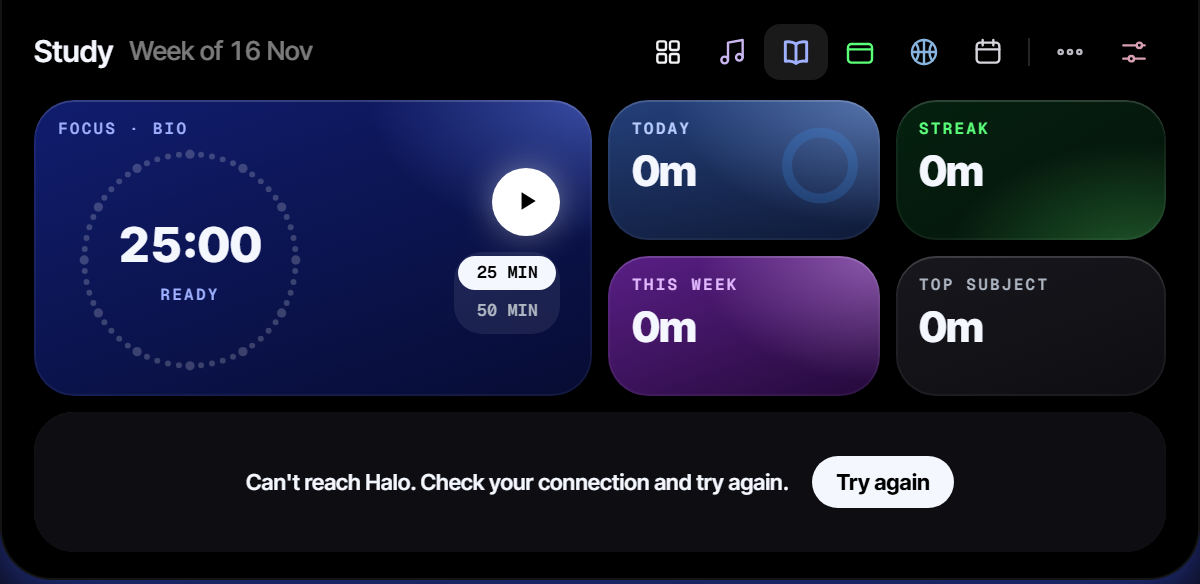
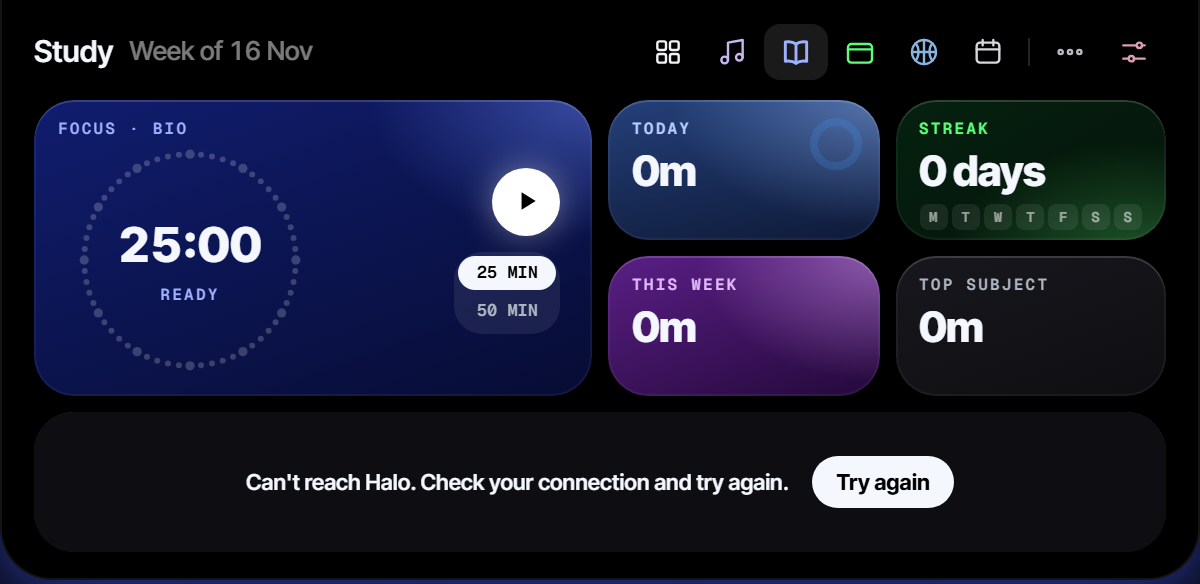
Card 16 review fixes: overtime is +$2 an hour, bar scale, Spotify ellipsis, Today ring, streak pills, phone Home reshoot

Changed region(s): [[0.6475, 0.2466, 0.74, 0.3699], [0.7708, 0.2774, 0.8942, 0.339]]

diff --git a/src/panels/pay.ts b/src/panels/pay.ts
@@ -2,7 +2,7 @@ import '../styles/tokens.css'
 import '../styles/proto.css'
 import './pay.css'
 import type { Backend, Settings } from '../types'
-import { CHARGE_MAX_HOURS, CHARGE_OT_HOURS, calcWeek, chargeBar, cumulativeGross, overtimePay, perthWeekStart, sundayRate, type WeekPay } from '../lib/pay'
+import { CHARGE_MAX_HOURS, CHARGE_OT_HOURS, OT_EXTRA_RATE, calcWeek, chargeBar, cumulativeGross, overtimePay, perthWeekStart, sundayRate, type WeekPay } from '../lib/pay'
 import { rangeLabel } from '../lib/shell-meta'
 import { animateIn, countUp, pvRoot, reducedMotion, tip, type PvRoot } from '../ui/charts'
 
@@ -24,13 +24,13 @@ const aud = new Intl.NumberFormat('en-AU', { style: 'currency', currency: 'AUD',
 const whole = (n: number) => `$${Math.round(n)}`
 const hrs = (n: number) => String(Number(n.toFixed(1)))
 const amountHtml = (n: number) => { const [d, c] = n.toFixed(2).split('.'); return `$${Number(d).toLocaleString('en-AU')}<small>.${c}</small>` }
-const otX = (CHARGE_OT_HOURS / CHARGE_MAX_HOURS) * 100
+const otX = (CHARGE_OT_HOURS / CHARGE_MAX_HOURS) * 100 // the starting spot, moved by paint() when the scale grows
 
 const TEMPLATE = `<div class="payHero pop" style="--i:0">
     <div class="payTop"><span class="caps" data-k="cap">This week</span><div class="toggle" role="group" aria-label="Pay week"><button type="button" data-w="0" class="on" aria-pressed="true">THIS</button><button type="button" data-w="1" aria-pressed="false">NEXT</button></div></div>
     <div class="payAmt"><b class="num" data-k="amt" aria-live="polite">$0<small>.00</small></b><span class="chipb" data-k="ot" hidden></span></div>
-    <div class="charge" role="img" data-k="chargeA11y"><div class="trk"></div><div class="fl" data-k="fl"></div><div class="ot" data-k="otbar" style="left:${otX}%"></div><div class="mk" style="left:${otX}%"></div><div class="kn" data-k="kn" style="left:12%">${BOLT}<span data-k="knt">0h</span></div></div>
-    <div class="chargeL" aria-hidden="true"><span>0H</span><span>10H OVERTIME</span><span>24H</span></div>
+    <div class="charge" role="img" data-k="chargeA11y"><div class="trk"></div><div class="fl" data-k="fl"></div><div class="ot" data-k="otbar" style="left:${otX}%"></div><div class="mk" data-k="mk" style="left:${otX}%"></div><div class="kn" data-k="kn" style="left:12%">${BOLT}<span data-k="knt">0h</span></div></div>
+    <div class="chargeL" aria-hidden="true"><span>0H</span><span data-k="otL">10H OVERTIME</span><span data-k="maxL">24H</span></div>
     <button type="button" class="payRates" data-k="rates">Rates from Settings</button>
     <div class="area"><svg viewBox="0 0 290 84" preserveAspectRatio="none" aria-hidden="true"><defs><linearGradient id="payAf" x1="0" y1="0" x2="0" y2="1"><stop offset="0" stop-color="#5CFF7A" stop-opacity=".35"/><stop offset="1" stop-color="#5CFF7A" stop-opacity="0"/></linearGradient></defs>${[20, 40, 60].map((y) => `<line x1="0" x2="290" y1="${y}" y2="${y}" stroke="rgba(255,255,255,.06)" stroke-dasharray="3 4"/>`).join('')}<g data-k="curve"></g></svg><div class="dl" data-k="dl"></div></div>
     <div class="areaEmpty"><b>No shifts this week</b><span data-k="emptyNote"></span></div>
@@ -82,15 +82,21 @@ export function PayPanel(api: Backend, subscribe: (cb: () => void) => () => void
     const ot = overtimePay(w)
     const chip = $('ot')
     chip.hidden = ot <= 0
-    if (ot > 0) chip.textContent = `+${whole(ot)} OT`
+    if (ot > 0) chip.textContent = `+${aud.format(ot).replace('.00', '')} OT`
+    chip.title = `Overtime pays an extra ${whole(OT_EXTRA_RATE)} an hour past 10 hours`
 
     // charging bar: solid up to 10 h, stripes past it. The knob never leaves the bar's left edge.
     const bar = chargeBar(w.hours)
+    const mark = `${(CHARGE_OT_HOURS / bar.scale) * 100}%`
     $('fl').style.width = `${bar.base * 100}%`
     $('otbar').style.width = `${bar.over * 100}%`
-    $('kn').style.left = `${Math.min(92, Math.max(12, (bar.base + bar.over) * 100))}%`
+    $('otbar').style.left = mark
+    $('mk').style.left = mark
+    $('otL').style.visibility = bar.scale > 30 ? 'hidden' : ''
+    $('maxL').textContent = `${Number(bar.scale.toFixed(1))}H`
+    $('kn').style.left = `${Math.max(12, (bar.base + bar.over) * 100)}%`
     $('knt').textContent = `${hrs(w.hours)}h`
-    $('chargeA11y').setAttribute('aria-label', `${hrs(w.hours)} hours of ${CHARGE_MAX_HOURS}, overtime starts at ${CHARGE_OT_HOURS}`)
+    $('chargeA11y').setAttribute('aria-label', `${hrs(w.hours)} hours of ${Number(bar.scale.toFixed(1))}, overtime starts at ${CHARGE_OT_HOURS}`)
 
     // curve: cumulative pay by day
     const cum = cumulativeGross(w)

diff --git a/src/panels/homeTab.ts b/src/panels/homeTab.ts
@@ -195,25 +195,14 @@ export function HomeTab(o: HomeTabOptions): HomeTabHandle {
     const base = `<div class="dpArt" style="${art ? `background-image:url(&quot;${art}&quot;)` : ''}"></div>`
     if (media === undefined) return paint('music', 'load', `${base}<div class="dpMuT"><div class="dpL">Spotify</div>${skel('s')}</div>`)
     if (!media || !media.available || !media.title) {
-      return paint('music', `m:none:${media === null}`, `${base}<div class="dpMuT"><div class="dpL">Music</div><b class="dpTt fits"><span>Nothing playing</span></b><div class="dpS">${media === null ? 'Start Halo helper' : 'Open Spotify'}</div></div><div class="dpEq" aria-hidden="true"></div><button type="button" class="dpPl" disabled aria-label="Play">${PLAY}</button>`)
+      return paint('music', `m:none:${media === null}`, `${base}<div class="dpMuT"><div class="dpL">Music</div><b class="dpTt">Nothing playing</b><div class="dpS">${media === null ? 'Start Halo helper' : 'Open Spotify'}</div></div><div class="dpEq" aria-hidden="true"></div><button type="button" class="dpPl" disabled aria-label="Play">${PLAY}</button>`)
     }
     const m = media
     const key = `m:${m.title}:${m.artist}:${m.playing}:${art ? 1 : 0}`
-    paint('music', key, `${base}<div class="dpMuT"><div class="dpL" style="color:#1ED760">${esc(m.source || 'Music')}</div><b class="dpTt" data-marquee><span>${esc(m.title)}</span></b><div class="dpS" data-marquee>${esc(m.artist)}</div></div><div class="dpEq ${m.playing ? 'on' : ''}" aria-hidden="true">${[.5, .9, .6, 1, .4, .8, .55].map((h, i) => `<i style="--h:${h};animation-delay:${i * .11}s"></i>`).join('')}</div><button type="button" class="dpPl" aria-label="${m.playing ? 'Pause' : 'Play'}">${m.playing ? PAUSE : PLAY}</button>`, (el) => {
+    paint('music', key, `${base}<div class="dpMuT"><div class="dpL" style="color:#1ED760">${esc(m.source || 'Music')}</div><b class="dpTt" data-ellipsis title="${esc(m.title)}">${esc(m.title)}</b><div class="dpS dpAr" data-ellipsis>${esc(m.artist)}</div></div><div class="dpEq ${m.playing ? 'on' : ''}" aria-hidden="true">${[.5, .9, .6, 1, .4, .8, .55].map((h, i) => `<i style="--h:${h};animation-delay:${i * .11}s"></i>`).join('')}</div><button type="button" class="dpPl" aria-label="${m.playing ? 'Pause' : 'Play'}">${m.playing ? PAUSE : PLAY}</button>`, (el) => {
       el.querySelector('.dpPl')?.addEventListener('click', (e) => { e.stopPropagation(); void src.control('toggle').then(pollMedia) })
-      requestAnimationFrame(() => marquee(el.querySelector('.dpTt')))
     })
   }
-  /** Scroll a title that does not fit, slowly, with a pause at the start. A short one gets no mask and no motion. */
-  function marquee(box: HTMLElement | null) {
-    const span = box?.firstElementChild as HTMLElement | null
-    if (!box || !span) return
-    const over = span.scrollWidth - box.clientWidth
-    box.classList.toggle('fits', over <= 0)
-    box.classList.toggle('scroll', over > 0)
-    if (over > 0) { box.style.setProperty('--mqd', `${-over - 8}px`); box.style.setProperty('--mq', `${Math.max(6, over / 18 + 4)}s`) }
-  }
-
   function drawSixers() {
     if (game === undefined) return paint('sixers', 'load', `<div class="dpNbE">${skel()}${skel('s')}</div>`)
     const g = game?.game

diff --git a/src/panels/study.ts b/src/panels/study.ts
@@ -43,8 +43,8 @@ const TEMPLATE = `<div class="grid">
         <button type="button" class="stStop" data-k="stop" aria-label="Stop and log" title="Stop and log" hidden>${STOP}</button>
         <div class="toggle" data-k="len" role="group" aria-label="Focus length">${LENGTHS.map((m) => `<button type="button" data-m="${m}" aria-pressed="false">${m} MIN</button>`).join('')}</div></div></div>
   </div>
-  ${tile('blue', 1, 'Today', 'today', `<div class="vis" data-k="todayRing">${ring('#3D9BFF', 0, 40, 5)}</div>`)}
-  ${tile('green', 2, 'Streak', 'streak')}
+  ${tile('blue', 1, 'Today', 'today', `<div class="vis" data-k="todayRing">${ring('#3D9BFF', 0, 28, 4)}</div>`)}
+  <div class="t green pop" style="--i:2"><span class="caps">Streak</span><div class="big num" data-k="streak">0 days</div><div class="stWk" data-k="streakWk" role="img" aria-label="Days studied this week">${['M', 'T', 'W', 'T', 'F', 'S', 'S'].map((d) => `<i>${d}</i>`).join('')}</div></div>
   ${tile('purple', 3, 'This week', 'week')}
   ${tile('dark', 4, 'Top subject', 'top')}
   <div class="t dark s4 pop stSubs" style="--i:5"><span class="caps">By subject · tap to focus</span><div class="subrows" data-k="subs" role="group" aria-label="Subject">${ORDER.map((n) => `<button type="button" class="sr" data-n="${n}" aria-pressed="false" style="--c:${SUBJ[n].c}"><span>${SUBJ[n].short}</span><div class="dts">${Array.from({ length: 10 }, () => '<i></i>').join('')}</div><i class="bh" hidden title="Behind for its next test"></i></button>`).join('')}</div>
@@ -122,8 +122,15 @@ export function StudyPanel(api: Backend, timer: StudyTimerHandle, onResize: () =
     const st = studyStreak(sessions, clock())
     const days = Math.max(st.days, live > 0 && st.days === 0 ? 1 : st.days)
     put('streak', `${days} ${days === 1 ? 'day' : 'days'}`)
-    const letters = ['M', 'T', 'W', 'T', 'F', 'S', 'S'].filter((_, i) => st.week[i])
-    put('streakS', days ? letters.join(' ') || 'Today' : 'Start one today')
+    // M T W T F S S, studied days lit. Today lights as soon as a session is running.
+    const week = st.week.slice()
+    if (live > 0) week[(new Date(clock().getTime() + 8 * 36e5).getUTCDay() + 6) % 7] = true
+    const wk = week.map(Number).join('')
+    if (shown.streakWk !== wk) {
+      shown.streakWk = wk
+      $('streakWk').querySelectorAll('i').forEach((d, i) => d.classList.toggle('on', week[i]))
+      $('streakWk').setAttribute('aria-label', `Studied ${['Monday', 'Tuesday', 'Wednesday', 'Thursday', 'Friday', 'Saturday', 'Sunday'].filter((_, i) => week[i]).join(', ') || 'no days'} this week`)
+    }
     const subjects = summary?.subjects ?? []
     const mine = (name: string) => (subjects.find((x) => x.subject === name)?.minutes ?? 0) + (live && s.subject === name ? live : 0)
     const total = (summary?.totalMinutes ?? 0) + live

diff --git a/tests/pay.test.ts b/tests/pay.test.ts
@@ -221,7 +221,7 @@ test('shifts outside the week are ignored and the list is in time order', () => 
 })
 
 // ---- Card 16: the Pay tab's charging bar and curve ----
-import { CHARGE_MAX_HOURS, CHARGE_OT_HOURS, chargeBar, cumulativeGross, overtimePay, sundayRate } from '../src/lib/pay.ts'
+import { CHARGE_MAX_HOURS, CHARGE_OT_HOURS, chargeBar, chargeScale, cumulativeGross, overtimePay, sundayRate } from '../src/lib/pay.ts'
 
 test('cumulativeGross adds each day to the last and ends on the week gross', () => {
   // Wed 18 Nov 4 pm to 9 pm = 5 h, no break (not over 5 h) = $100. Sat 21 Nov 9 am to 3 pm = 6 h, 5.5 paid = $110.
@@ -234,17 +234,26 @@ test('cumulativeGross adds each day to the last and ends on the week gross', () 
 })
 
 test('chargeBar is solid to 10 hours, then overtime stripes, and never passes 24', () => {
-  assert.deepEqual(chargeBar(0), { base: 0, over: 0 })
-  assert.deepEqual(chargeBar(6), { base: 6 / CHARGE_MAX_HOURS, over: 0 })
-  assert.deepEqual(chargeBar(15.5), { base: CHARGE_OT_HOURS / CHARGE_MAX_HOURS, over: 5.5 / CHARGE_MAX_HOURS })
-  assert.equal(chargeBar(40).base + chargeBar(40).over, 1)
+  assert.deepEqual(chargeBar(0), { base: 0, over: 0, scale: 24 })
+  assert.deepEqual(chargeBar(6), { base: 6 / CHARGE_MAX_HOURS, over: 0, scale: 24 })
+  assert.deepEqual(chargeBar(15.5), { base: CHARGE_OT_HOURS / CHARGE_MAX_HOURS, over: 5.5 / CHARGE_MAX_HOURS, scale: 24 })
 })
 
-test('overtimePay is the average rate on the hours past 10, and zero at 10 or under', () => {
+test('the bar scale is max(24, hours + 2), so the knob always stops short of the end', () => {
+  assert.equal(chargeScale(10), 24)
+  assert.equal(chargeScale(22), 24)
+  assert.equal(chargeScale(24.8), 26.8)
+  for (const h of [0, 8, 22, 24, 24.8, 40]) { const b = chargeBar(h); assert.ok(b.base + b.over < 1 || h === 0) }
+  const b = chargeBar(40)
+  assert.ok(Math.abs(b.base + b.over - 40 / 42) < 1e-9)
+})
+
+test('overtimePay is the extra $2 an hour on hours past 10, and zero at 10 or under', () => {
   const week = (hours: number, gross: number) => ({ hours, gross }) as never
   assert.equal(overtimePay(week(10, 200)), 0)
   assert.equal(overtimePay(week(8, 160)), 0)
-  assert.equal(overtimePay(week(15, 300)), 100) // 5 of 15 hours at $20
+  assert.equal(overtimePay(week(15.5, 310)), 11) // 5.5 h over 10 x $2, not the pay for those hours
+  assert.equal(overtimePay(week(24.75, 500)), 29.5)
 })
 
 test('sundayRate is the base rate times the Sunday multiplier', () => {

diff --git a/src/lib/pay.ts b/src/lib/pay.ts
@@ -203,6 +203,11 @@ export function calcWeek(shifts: PayShift[], weekStart: Date, s: Settings): Week
 /** Hours at which the charging bar turns to overtime stripes, and the full width of the bar. */
 export const CHARGE_OT_HOURS = 10
 export const CHARGE_MAX_HOURS = 24
+/** Overtime pays this much extra an hour on hours past 10 in a pay week (from the payslip). */
+export const OT_EXTRA_RATE = 2
+
+/** The bar is 24 hours wide, or hours + 2 when the week is bigger, so the knob never runs off the end. */
+export const chargeScale = (hours: number): number => Math.max(CHARGE_MAX_HOURS, hours + 2)
 
 /** Gross pay banked by the end of each day of the week, Monday first. The last value is the week's gross. */
 export function cumulativeGross(week: WeekPay): number[] {
@@ -210,16 +215,16 @@ export function cumulativeGross(week: WeekPay): number[] {
   return week.days.map((d) => { run += d.gross; return round2(run) })
 }
 
-/** The charging bar as fractions of its full width: solid up to 10 hours, stripes past it. */
-export function chargeBar(hours: number): { base: number; over: number } {
-  const h = Math.max(0, Math.min(CHARGE_MAX_HOURS, hours))
-  return { base: Math.min(h, CHARGE_OT_HOURS) / CHARGE_MAX_HOURS, over: Math.max(0, h - CHARGE_OT_HOURS) / CHARGE_MAX_HOURS }
+/** The charging bar as fractions of its full width: solid up to 10 hours, stripes past it. `scale` is the bar's width in hours. */
+export function chargeBar(hours: number): { base: number; over: number; scale: number } {
+  const h = Math.max(0, hours)
+  const scale = chargeScale(h)
+  return { base: Math.min(h, CHARGE_OT_HOURS) / scale, over: Math.max(0, h - CHARGE_OT_HOURS) / scale, scale }
 }
 
-/** Pay earned on the hours past 10 in a week, at the week's average rate. Zero at 10 hours or under. */
+/** The extra overtime pays: $2 an hour on hours past 10 in the week. Not the pay for those hours. Zero at 10 hours or under. */
 export function overtimePay(week: WeekPay): number {
-  if (week.hours <= CHARGE_OT_HOURS) return 0
-  return round2(((week.hours - CHARGE_OT_HOURS) / week.hours) * week.gross)
+  return round2(Math.max(0, week.hours - CHARGE_OT_HOURS) * OT_EXTRA_RATE)
 }
 
 /** What an hour on a Sunday pays. */

diff --git a/src/panels/homeTab.css b/src/panels/homeTab.css
@@ -34,13 +34,9 @@
 .home-pv .dpMu { display: grid; grid-template-columns: 44px minmax(0, 1fr) auto auto; align-items: center; column-gap: 9px; }
 .home-pv .dpArt { width: 40px; height: 40px; border-radius: 10px; background: rgba(255,255,255,.08) center / cover; flex: none; box-shadow: 0 6px 14px -6px var(--c); }
 .home-pv .dpMuT { min-width: 0; }
-.home-pv .dpTt { display: block; font-size: 12px; font-weight: 800; margin-top: 2px; white-space: nowrap; overflow: hidden; -webkit-mask-image: linear-gradient(90deg, #000 calc(100% - 10px), transparent); mask-image: linear-gradient(90deg, #000 calc(100% - 10px), transparent); }
-.home-pv .dpTt.fits { -webkit-mask-image: none; mask-image: none; }
-.home-pv .dpTt > span { display: inline-block; }
-/* A long title scrolls slowly with a pause at the start (HALO.md 3.1c), a short one just sits. */
-.home-pv .dpTt.scroll > span { animation: dpMq var(--mq, 10s) linear infinite; }
-@keyframes dpMq { 0%, 20% { transform: translateX(0); } 80%, 100% { transform: translateX(var(--mqd, 0)); } }
-.home-pv .dpMuT .dpS { margin: 0; overflow: hidden; }
+/* One line. A title too long for the widget ends in an ellipsis, so the start is never cut. */
+.home-pv .dpTt { display: block; font-size: 12px; font-weight: 800; margin-top: 2px; white-space: nowrap; overflow: hidden; text-overflow: ellipsis; }
+.home-pv .dpMuT .dpS { margin: 0; overflow: hidden; text-overflow: ellipsis; }
 .home-pv .dpEq { display: flex; align-items: flex-end; gap: 2px; height: 22px; flex: none; }
 .home-pv .dpEq i { width: 3px; height: calc(var(--h) * 100%); border-radius: 2px; background: #1ED760; opacity: .85; transform-origin: bottom; }
 .home-pv .dpEq.on i { animation: dpEq .9s ease-in-out infinite alternate; }
@@ -89,5 +85,5 @@
 .home-pv .dp .skel.s { height: 9px; width: 45%; margin-top: 5px; }
 
 @media (prefers-reduced-motion: reduce) {
-  .home-pv .dpEq.on i, .home-pv .lumMini .b, .home-pv .dpTt.scroll > span { animation: none; }
+  .home-pv .dpEq.on i, .home-pv .lumMini .b { animation: none; }
 }

diff --git a/src/panels/study.css b/src/panels/study.css
@@ -2,6 +2,10 @@
    today, streak, this week, top subject and a row per subject. A fixed 4 x 3 grid of 70 px rows, so nothing scrolls. */
 .study-pv .grid { display: grid; grid-template-columns: repeat(4, minmax(0, 1fr)); grid-template-rows: repeat(3, 70px); gap: 8px; height: 100%; }
 .study-pv .t { min-width: 0; }
+.study-pv .vis { top: 8px; right: 8px; transform: none; }
+.study-pv .stWk { display: flex; gap: 2px; margin-top: 6px; }
+.study-pv .stWk i { flex: 1; height: 13px; border-radius: 4px; font-style: normal; font-family: var(--mono); font-size: 7px; font-weight: 600; display: grid; place-items: center; color: rgba(255,255,255,.55); background: rgba(255,255,255,.08); transition: background .3s, color .3s, box-shadow .3s; }
+.study-pv .stWk i.on { background: var(--green); color: #04210f; box-shadow: 0 0 8px -1px var(--green); }
 .study-pv .stTimer { padding: 9px 12px 8px; }
 .study-pv .stRing { position: relative; height: 118px; margin-top: 2px; }
 .study-pv .stRing svg.dots { position: absolute; left: 4px; top: -4px; width: 124px; height: 124px; }

diff --git a/HALO.md b/HALO.md
@@ -250,6 +250,7 @@ Empty, loading (skeleton shimmer, not spinners), error (one plain sentence + ret
 - **30 minutes unpaid break on any shift over 5 hours.**
 - Tax estimate: 15 cents per dollar earned over $350 in the week.
 - Show: hours, gross, after-tax estimate, and each shift with its hours and pay.
+- Overtime: +$2 an hour on hours past 10 in a pay week (from the payslip). The Pay "+$N OT" chip shows only that extra (hours over 10 × $2), not the pay for those hours.
 - Liam should double-check rates against his payslip. Show a small "Rates from Settings" note with a link to edit.
 
 ## 5. Safety rules
